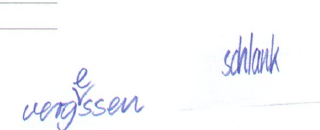
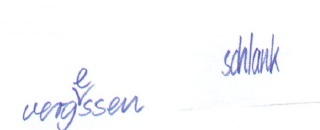
AB A1.2 native: re-seat p30/p89/p59 text rows on scan rows, crisp review

Changed region(s): [[0.0, 0.2154, 0.1875, 0.2462], [0.0, 0.0, 0.1875, 0.0308]]

diff --git a/src/components/NativeAB12.tsx b/src/components/NativeAB12.tsx
@@ -26,40 +26,82 @@ export function NativeAB12({page}:{page:string}){
  return <div className="nativeAB12" ref={root} data-native-ab12={page}><div className={'naCanvas'+(W<1000?' naNarrow':'')} style={{width:W,height:H,transform:`translate(-50%,-50%) scale(${scale})`}}>
  {page==='89'&&<>
   {art('lesson-tab',738,18,62,75)}
-  {text(75,64,300,'LERNWORTSCHATZ','naHeadline')}
+  {text(75,63,300,'LERNWORTSCHATZ','naHeadline')}
   <div className="naHeadRule" style={{left:388,top:78,width:270}}/>
   {title('1',78,116,540,'Wie heißen die Wörter in Ihrer Sprache? Übersetzen Sie.','naRB naNw')}
-  {text(96,148,160,'Wetter','naWHead')}
-  {text(105,171,140,'Wetter das')}
-  {([['Gewitter das, -',195],['Grad das, -e',213],['Nebel der',233],['Regen der',254],['Schnee der',272],['Sonne die, -n',293],['Sturm der, ¨e',312],['Wind der, -e',331],['Wolke die, -n',350]] as [string,number][]).map(([t,y],i)=>
-   <div key={i}>{text(105,y-2,140,t)}{field('89-1-w'+i,220,y-7,127,t+' übersetzen')}</div>)}
-  {([['regnen, hat',379],['geregnet',398],['schneien, hat',418],['geschneit',436],['scheinen, hat',457],['geschienen',476]] as [string,number][]).map(([t,y],i)=>
-   <div key={i}>{text(105,y-2,140,t)}{i%2===1&&field('89-1-v'+i,220,y-7,127,'Partizip übersetzen')}</div>)}
-  {([['kühl',506],['neblig',525],['sonnig',544],['warm',569],['windig',584]] as [string,number][]).map(([t,y],i)=>
-   <div key={i}>{text(105,y-2,140,t)}{field('89-1-a'+i,220,y-7,127,t+' übersetzen')}</div>)}
-  {text(396,150,240,'Himmelsrichtungen','naWHead')}
-  {text(397,170,220,'Himmelsrichtung')}
-  {text(397,190,100,'die, -en')}
-  {field('89-1-h0',460,185,133,'Himmelsrichtung übersetzen')}
-  {([['Norden der',214],['Süden der',233],['Osten der',254],['Westen der',273]] as [string,number][]).map(([t,y],i)=>
-   <div key={i}>{text(396,y-2,100,t)}{field('89-1-h'+(i+1),460,y-7,133,t+' übersetzen')}</div>)}
-  {text(396,307,240,'Weitere wichtige Wörter','naWHead')}
-  {([['Dach das, ¨er',331],['Frühjahr das, -e',350],['Glas das, ¨er',370],['Glück das',389],['Himmel der',409],['Laune die, -n',429]] as [string,number][]).map(([t,y],i)=>
-   <div key={i}>{text(396,y-2,110,t)}{field('89-1-x'+i,460,y-7,133,t+' übersetzen')}</div>)}
-  {text(396,445,110,'Reiseführer')}
-  {field('89-1-x6',460,440,133,'Reiseführer übersetzen')}
-  {text(414,465,60,'der, -')}
-  {field('89-1-x7',460,452,133,'Reiseführer der übersetzen')}
-  {text(396,486,110,'Traum der, ¨e')}
-  {field('89-1-x8',460,481,133,'Traum übersetzen')}
+  {text(96,145,160,'Wetter','naWHead')}
+  {text(396,145,240,'Himmelsrichtungen','naWHead')}
+  {text(396,303,240,'Weitere wichtige Wörter','naWHead')}
+  {text(105,168,150,'Wetter das')}
+  {text(105,187,150,'Gewitter das, -')}
+  {field('89-1-l1',234,187,144,'Gewitter das, - übersetzen')}
+  {text(105,206,150,'Grad das, -e')}
+  {field('89-1-l2',234,206,144,'Grad das, -e übersetzen')}
+  {text(105,226,150,'Nebel der')}
+  {field('89-1-l3',234,226,144,'Nebel der übersetzen')}
+  {text(105,245,150,'Regen der')}
+  {field('89-1-l4',234,245,144,'Regen der übersetzen')}
+  {text(105,265,150,'Schnee der')}
+  {field('89-1-l5',234,265,144,'Schnee der übersetzen')}
+  {text(105,284,150,'Sonne die, -n')}
+  {field('89-1-l6',234,284,144,'Sonne die, -n übersetzen')}
+  {text(105,304,150,'Sturm der, ¨e')}
+  {field('89-1-l7',234,304,144,'Sturm der, ¨e übersetzen')}
+  {text(105,324,150,'Wind der, -e')}
+  {field('89-1-l8',234,324,144,'Wind der, -e übersetzen')}
+  {text(105,343,150,'Wolke die, -n')}
+  {field('89-1-l9',234,343,144,'Wolke die, -n übersetzen')}
+  {text(105,373,150,'regnen, hat')}
+  {text(114,392,150,'geregnet')}
+  {field('89-1-l11',234,392,144,'geregnet übersetzen')}
+  {text(105,412,150,'schneien, hat')}
+  {text(114,431,150,'geschneit')}
+  {field('89-1-l13',234,431,144,'geschneit übersetzen')}
+  {text(105,451,150,'scheinen, hat')}
+  {text(114,470,150,'geschienen')}
+  {field('89-1-l15',234,470,144,'geschienen übersetzen')}
+  {text(105,500,150,'kühl')}
+  {field('89-1-l16',234,500,144,'kühl übersetzen')}
+  {text(105,519,150,'neblig')}
+  {field('89-1-l17',234,519,144,'neblig übersetzen')}
+  {text(105,538,150,'sonnig')}
+  {field('89-1-l18',234,538,144,'sonnig übersetzen')}
+  {text(397,168,150,'Himmelsrichtung')}
+  {text(406,187,150,'die, -en')}
+  {field('89-1-r1',505,187,148,'die, -en übersetzen')}
+  {text(396,207,150,'Norden der')}
+  {field('89-1-r2',505,207,148,'Norden der übersetzen')}
+  {text(396,227,150,'Süden der')}
+  {field('89-1-r3',505,227,148,'Süden der übersetzen')}
+  {text(396,246,150,'Osten der')}
+  {field('89-1-r4',505,246,148,'Osten der übersetzen')}
+  {text(396,265,150,'Westen der')}
+  {field('89-1-r5',505,265,148,'Westen der übersetzen')}
+  {text(396,324,150,'Dach das, ¨er')}
+  {field('89-1-r6',505,324,148,'Dach das, ¨er übersetzen')}
+  {text(396,344,150,'Frühjahr das, -e')}
+  {field('89-1-r7',505,344,148,'Frühjahr das, -e übersetzen')}
+  {text(396,363,150,'Glas das, ¨er')}
+  {field('89-1-r8',505,363,148,'Glas das, ¨er übersetzen')}
+  {text(396,383,150,'Glück das')}
+  {field('89-1-r9',505,383,148,'Glück das übersetzen')}
+  {text(396,402,150,'Himmel der')}
+  {field('89-1-r10',505,402,148,'Himmel der übersetzen')}
+  {text(396,422,150,'Laune die, -n')}
+  {field('89-1-r11',505,422,148,'Laune die, -n übersetzen')}
+  {text(396,441,150,'Reiseführer')}
+  {text(405,461,150,'der, -')}
+  {field('89-1-r13',505,461,148,'der, - übersetzen')}
+  {text(396,480,150,'Traum der, ¨e')}
+  {field('89-1-r14',505,480,148,'Traum der, ¨e übersetzen')}
   {art('tipp',433,545,136,42)}
-  {text(461,551,110,'Suchen Sie','naSmall')}
-  {text(461,569,130,'Wortfamilien.','naSmall')}
+  {text(461,550,110,'Suchen Sie','naSmall')}
+  {text(461,568,130,'Wortfamilien.','naSmall')}
   {art('handwriting',360,605,265,60)}
   {art('strip',665,95,140,915)}
   {title('2',78,686,540,'Welche Wörter möchten Sie noch lernen? Notieren Sie.','naRB naNw')}
   {[713,732,752,772,791,811,830,849,869,888,908,927,947,966,986,1005].map((y,i)=>field('89-2-'+i,102,y,525,'Notizzeile '+(i+1)))}
-  {text(598,1047,150,'neunundachtzig  |  89','naFooter')}
+  {text(598,1046,150,'neunundachtzig  |  89','naFooter')}
   {art('modul-tab',722,1038,50,24)}
  </>}
  {page==='30'&&<>
@@ -73,25 +115,25 @@ export function NativeAB12({page}:{page:string}){
   {text(167,250,22,'■','naSq')}
   {text(189,252,40,'Was','naDlg naNw')}
   {art('hand1',225,246,240,40)}
-  {rule(472,271,116)}
+  {rule(462,271,126)}
   {text(591,252,20,'?','naDlg')}
   {text(167,276,22,'▲','naTri')}
-  {text(190,277,32,'Ich','naDlg naNw')}
+  {text(190,273,32,'Ich','naDlg naNw')}
   {field('p30-1a',221,270,291,'Antwort 1a')}
-  {text(516,277,16,'.','naDlg')}
-  {text(190,304,400,'Die Klimaanlage in meinem Zimmer','naDlg naNw')}
+  {text(516,273,16,'.','naDlg')}
+  {text(190,299,400,'Die Klimaanlage in meinem Zimmer','naDlg naNw')}
   {field('p30-1b',188,321,399,'Antwort 1b')}
   {text(593,334,16,'.','naDlg')}
-  {text(167,366,22,'■','naSq')}
-  {text(189,368,200,'Das tut mir leid. Ich','naDlg naNw')}
+  {text(167,361,22,'■','naSq')}
+  {text(189,361,200,'Das tut mir leid. Ich','naDlg naNw')}
   {field('p30-1c',372,361,188,'Antwort 1c')}
-  {text(189,392,60,'mich','naDlg naNw')}
+  {text(189,388,60,'mich','naDlg naNw')}
   {field('p30-1d',252,386,178,'Antwort 1d')}
-  {text(438,394,90,'darum.','naDlg naNw')}
-  {text(167,420,22,'▲','naTri')}
-  {text(189,421,40,'Das','naDlg naNw')}
+  {text(438,390,90,'darum.','naDlg naNw')}
+  {text(167,414,22,'▲','naTri')}
+  {text(189,414,40,'Das','naDlg naNw')}
   {field('p30-1e',232,413,189,'Antwort 1e')}
-  {text(429,421,200,'. Vielen Dank!','naDlg naNw')}
+  {text(429,414,200,'. Vielen Dank!','naDlg naNw')}
   {art('rezeption',636,250,414,226)}
   {check('30-1',190,446,{'p30-1a':'brauche Ihre Hilfe','p30-1b':'funktioniert nicht','p30-1c':'kümmere','p30-1d':'sofort','p30-1e':'ist sehr nett'})}
   {kb(78,490,'KB 5')}
@@ -110,8 +152,8 @@ export function NativeAB12({page}:{page:string}){
   {kb(78,1052,'KB 5')}
   {title('3',130,1044,820,'Was haben Sie auf einer Reise in Ihrem KOFFER? Finden Sie Wörter.','naGB')}
   <div className="naSide" style={{left:75,top:1090}}>WÖRTER</div>
-  {(['K','O','F','F','E','R'] as string[]).map((l,i)=>{const y=1086+i*27;return <div key={i}>{text(374,y,26,l,'naLet')}{i!==2&&field('p30-3-'+i,398,y-7,205,'KOFFER-Zeile '+(i+1))}{i!==2&&field('p30-3-l'+i,160,y-7,205,'KOFFER-Zeile '+(i+1)+' links')}</div>})}
-  {art('foehn',386,1130,104,32)}
+  {(['K','O','F','F','E','R'] as string[]).map((l,i)=>{const y=Math.round(1076+i*25.8);return <div key={i}>{text(374,y,26,l,'naLet')}{i!==2&&field('p30-3-'+i,398,y-5,205,'KOFFER-Zeile '+(i+1))}{i!==2&&field('p30-3-l'+i,160,y-5,205,'KOFFER-Zeile '+(i+1)+' links')}</div>})}
+  {art('foehn',386,1122,104,32)}
   {kb(78,1278,'KB 5')}
   {title('4',130,1270,900,'Machen Sie ein Rätsel für Ihre Partnerin / Ihren Partner wie in 3 zu einem Thema aus den Lektionen 13–15.','naGB')}
   {text(55,1298,26,'●','naOpt')}
@@ -121,28 +163,83 @@ export function NativeAB12({page}:{page:string}){
  </>}
  {page==='59'&&<>
   {art('lesson-tab',980,32,86,88)}
-  {text(112,86,290,'LERNWORTSCHATZ','naHeadline')}
+  {text(112,84,290,'LERNWORTSCHATZ','naHeadline')}
   <div className="naHeadRule" style={{left:400,top:100,width:360}}/>
   {title('1',107,158,700,'Wie heißen die Wörter in Ihrer Sprache? Übersetzen Sie.')}
   <div className="naSide" style={{left:78,top:300}}>WÖRTER</div>
-  {text(152,200,160,'Aussehen','naBold')}
-  {([['Bart der, ¨e',231],['Haar das, -e',256],['blond',293],['dick',319],['dünn',345],['glatt',371],['grau',402],['hübsch',422],['schlank',448]] as [string,number][]).map(([t,y],i)=>
-   <div key={i}>{text(154,y+2,170,t)}{field('59-1-a'+i,326,y-5,192,t+' übersetzen')}</div>)}
-  {text(154,500,160,'Charakter','naBold')}
-  {([['freundlich/',526],['unfreundlich',552],['fröhlich',577],['glücklich/',603],['unglücklich',629],['komisch',655],['seltsam',681],['sympathisch/',706],['unsympathisch',732],['traurig',759]] as [string,number][]).map(([t,y],i)=>
-   <div key={i}>{text(155,y+2,180,t)}{[1,2,4,5,6,8,9].includes(i)&&field('59-1-c'+i,326,y-5,192,t.replace('/','')+' übersetzen')}</div>)}
-  {text(539,200,300,'Weitere wichtige Wörter','naBold')}
-  {([['Bäckerei die,',229,534],['-en',260,549],['Hausfrau die,',280,534],['-en',312,549],['beschweren (sich),',345,533],['hat sich',371,545],['beschwert',396,544],['erkennen, hat',422,534],['erkannt',448,545],['geboren sein,',474,533],['ist geboren',500,545],['vergessen,',531,533],['du vergisst,',551,545],['er vergisst,',578,545],['hat vergessen',603,545],['gleich',641,534],['laut',667,534],['ledig',693,534]] as [string,number,number][]).map(([t,y,x],i)=>
-   <div key={i}>{text(x,y+2,240,t)}</div>)}
-  {[260,312,396,448,500,603,641,667,693].map((y,i)=>field('59-1-w'+i,686,+y-5,198,'Übersetzung '+(i+1)))}
+  {text(152,196,160,'Aussehen','naBold')}
+  {text(154,225,170,'Bart der, ¨e')}
+  {field('59-1-aBar',326,221,192,'Bart der, ¨e übersetzen')}
+  {text(154,251,170,'Haar das, -e')}
+  {field('59-1-aHaa',326,247,192,'Haar das, -e übersetzen')}
+  {text(154,290,170,'blond')}
+  {field('59-1-ablo',326,286,192,'blond übersetzen')}
+  {text(154,316,170,'dick')}
+  {field('59-1-adic',326,312,192,'dick übersetzen')}
+  {text(154,342,170,'dünn')}
+  {field('59-1-adün',326,338,192,'dünn übersetzen')}
+  {text(154,368,170,'glatt')}
+  {field('59-1-agla',326,364,192,'glatt übersetzen')}
+  {text(154,394,170,'grau')}
+  {field('59-1-agra',326,390,192,'grau übersetzen')}
+  {text(154,419,170,'hübsch')}
+  {field('59-1-ahüb',326,415,192,'hübsch übersetzen')}
+  {text(154,445,170,'schlank')}
+  {field('59-1-asch',326,441,192,'schlank übersetzen')}
+  {text(154,496,160,'Charakter','naBold')}
+  {text(155,523,180,'freundlich/')}
+  {text(166,548,180,'unfreundlich')}
+  {field('59-1-cunfr',326,544,192,'unfreundlich übersetzen')}
+  {text(155,574,180,'fröhlich')}
+  {field('59-1-cfröh',326,570,192,'fröhlich übersetzen')}
+  {text(155,600,180,'glücklich/')}
+  {text(166,626,180,'unglücklich')}
+  {field('59-1-cungl',326,622,192,'unglücklich übersetzen')}
+  {text(155,652,180,'komisch')}
+  {field('59-1-ckomi',326,648,192,'komisch übersetzen')}
+  {text(155,678,180,'seltsam')}
+  {field('59-1-cselt',326,674,192,'seltsam übersetzen')}
+  {text(155,703,180,'sympathisch/')}
+  {text(166,729,180,'unsympathisch')}
+  {field('59-1-cunsy',326,725,206,'unsympathisch übersetzen')}
+  {text(155,755,180,'traurig')}
+  {field('59-1-ctrau',326,751,206,'traurig übersetzen')}
+  {text(539,196,300,'Weitere wichtige Wörter','naBold')}
+  {text(541,225,240,'Bäckerei die,')}
+  {text(551,251,240,'-en')}
+  {field('59-1-w265',686,247,198,'-en Übersetzung')}
+  {text(541,277,240,'Hausfrau die,')}
+  {text(551,303,240,'-en')}
+  {field('59-1-w317',686,299,198,'-en Übersetzung')}
+  {text(540,340,240,'beschweren (sich),')}
+  {text(552,366,240,'hat sich')}
+  {text(552,392,240,'beschwert')}
+  {field('59-1-w406',686,388,198,'beschwert Übersetzung')}
+  {text(541,419,240,'erkennen, hat')}
+  {text(552,445,240,'erkannt')}
+  {field('59-1-w459',686,441,198,'erkannt Übersetzung')}
+  {text(540,471,240,'geboren sein,')}
+  {text(552,496,240,'ist geboren')}
+  {field('59-1-w510',686,492,198,'ist geboren Übersetzung')}
+  {text(540,522,240,'vergessen,')}
+  {text(552,548,240,'du vergisst,')}
+  {text(552,574,240,'er vergisst,')}
+  {text(552,600,240,'hat vergessen')}
+  {field('59-1-w614',686,596,198,'hat vergessen Übersetzung')}
+  {text(540,638,240,'gleich')}
+  {field('59-1-w652',686,634,198,'gleich Übersetzung')}
+  {text(540,664,240,'laut')}
+  {field('59-1-w678',686,660,198,'laut Übersetzung')}
+  {text(540,690,240,'ledig')}
+  {field('59-1-w704',686,686,198,'ledig Übersetzung')}
   {art('strip',912,120,160,1240)}
   {art('tipprule',230,810,236,20)}
   {art('tipp',198,826,68,48)}
-  {text(267,837,220,'Machen Sie Wortbilder.','naSmall')}
+  {text(267,835,220,'Machen Sie Wortbilder.','naSmall')}
   {art('handwriting',470,748,320,130)}
   {title('2',107,916,700,'Welche Wörter möchten Sie noch lernen? Notieren Sie.')}
   {[0,1,2,3,4,5,6,7,8,9,10,11,12].map(i=>field('59-2-'+i,155,955+i*26,600,'Notizzeile '+(i+1)))}
-  {text(811,1386,160,'neunundfünfzig  |  59','naFooter')}
+  {text(811,1384,160,'neunundfünfzig  |  59','naFooter')}
   {art('modul-tab',1008,1384,64,30)}
  </>}
  </div><audio ref={player} className="naPlayer"/></div>;

diff --git a/src/components/native-ab12.css b/src/components/native-ab12.css
@@ -31,9 +31,9 @@
 .naCanvas .naKB{position:absolute;font:bold 13px Arial,sans-serif;color:#4357ad}
 .naCanvas .naOpt{color:#335b98;font-family:Verdana,sans-serif;font-size:15px;letter-spacing:0}
 .naCanvas .naStrike{text-decoration:line-through}
-.naCanvas .naSq{position:absolute;color:#4357ad;font-size:17px}
-.naCanvas .naTri{position:absolute;color:#7ab317;font-size:16px}
-.naCanvas .naLet{font-family:'Times New Roman',Times,serif;font-weight:bold;font-size:21px}
+.naCanvas .naSq{position:absolute;color:#4357ad;font-size:21px}
+.naCanvas .naTri{position:absolute;color:#7ab317;font-size:21px}
+.naCanvas .naLet{font-family:'Times New Roman',Times,serif;font-weight:normal;font-size:22px}
 .naCanvas .naNw{white-space:nowrap}
 .naCanvas .naD19{font-size:19px}
 .naCanvas .naTitle.naRB b{background:#c33523}
@@ -48,4 +48,4 @@
 .naCanvas.naNarrow .naHand{font-size:17px}
 .naCanvas .naDlg{font-family:'Times New Roman',Times,serif;font-size:22px;letter-spacing:-0.4px}
 .naCanvas.naNarrow .naField{height:20px!important;font:15px 'Times New Roman'!important}
-.naCanvas.naNarrow .naWHead{position:absolute;font:bold 19px/1.1 'Times New Roman',serif;white-space:nowrap}
+.naCanvas.naNarrow .naWHead{position:absolute;font:bold 17px/1.1 'Times New Roman',serif;white-space:nowrap}
